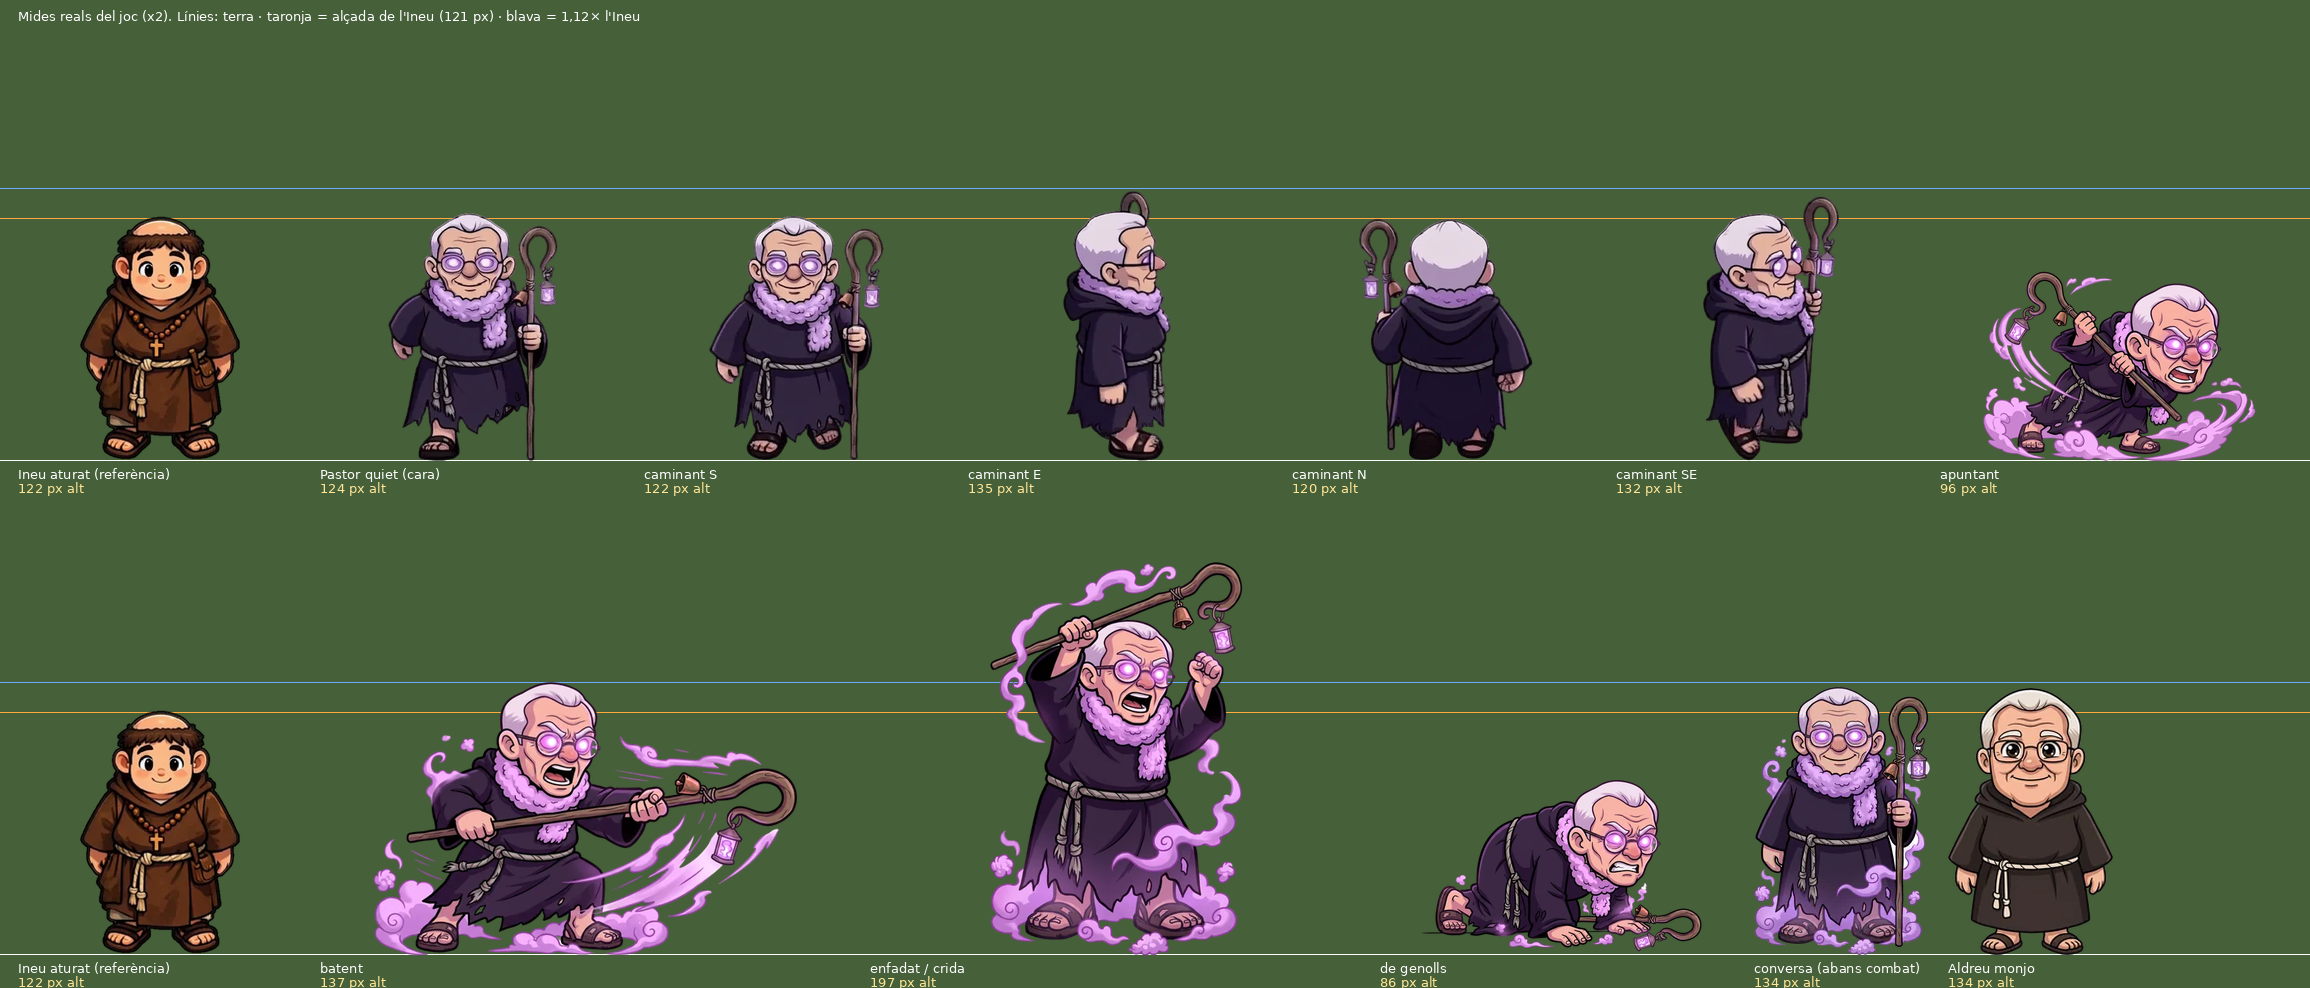
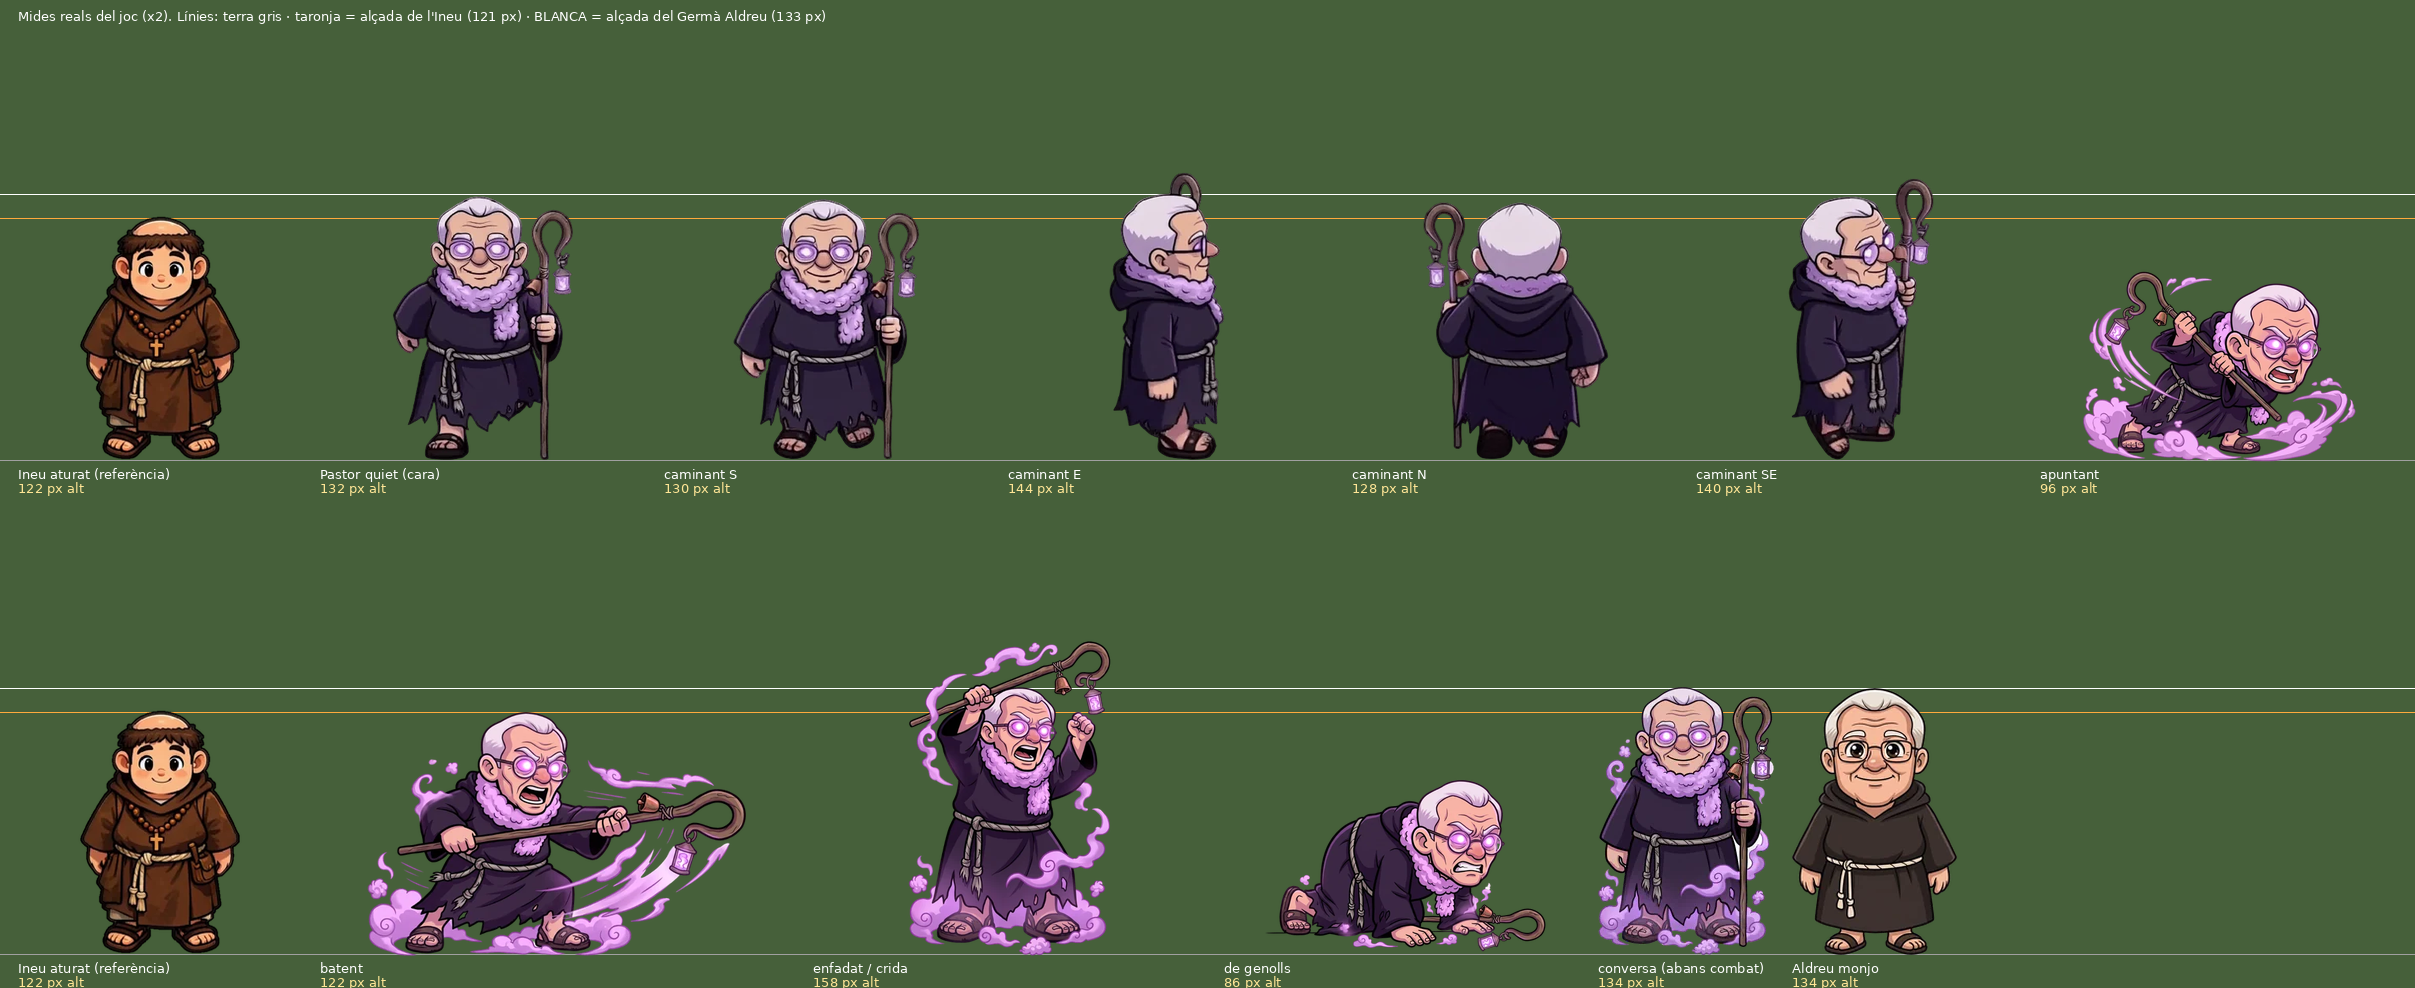
Pastor de la Boira: caminant/quiet a l'alçada del Germà Aldreu, batent amb el cap a l'alçada de l'Ineu, enfadat amb el cap a la línia blanca
Claude-Session: https://claude.ai/code/session_01Lxfm6YSSDLi4GYSBQ6SeDm

diff --git a/index.html b/index.html
@@ -32,7 +32,7 @@
     <!-- Tipografies al nostre servidor (eines/baixa_tipografies.py): el joc no demana res a Google -->
     <link rel="stylesheet" href="assets/fonts/fonts.css">
     <!-- Phaser va amb el joc (així no depèn de cap servidor extern); si el fitxer local fallés, es prova el CDN -->
-    <script src="js/lib/phaser.min.js?v=2611211015.80.1"></script>
+    <script src="js/lib/phaser.min.js?v=2611211054.80.1"></script>
     <script>if (typeof Phaser === 'undefined') document.write('<script src="https://cdn.jsdelivr.net/npm/phaser@3.80.1/dist/phaser.min.js"><\/script>');</script>
 </head>
 <body>
@@ -61,64 +61,64 @@
     <div id="joc"></div>
 
     <!-- L'ordre importa: cada fitxer fa servir coses dels anteriors -->
-    <script src="js/sfx.js?v=2611211015"></script>
-    <script src="js/partida.js?v=2611211015"></script>
-    <script src="js/progres.js?v=2611211015"></script>
-    <script src="js/dibuixos.js?v=2611211015"></script>
-    <script src="js/icones.js?v=2611211015"></script>
-    <script src="js/dibuixos_biblio.js?v=2611211015"></script>
-    <script src="js/dibuixos_cela.js?v=2611211015"></script>
-    <script src="js/dibuixos_taller.js?v=2611211015"></script>
-    <script src="js/dibuixos_cripta.js?v=2611211015"></script>
-    <script src="js/dibuixos_georgi.js?v=2611211015"></script>
-    <script src="js/dibuixos_oratori.js?v=2611211015"></script>
-    <script src="js/dibuixos_ermita.js?v=2611211015"></script>
-    <script src="js/dibuixos_casa.js?v=2611211015"></script>
-    <script src="js/dibuixos_proleg.js?v=2611211015"></script>
-    <script src="js/dibuixos_pingpong.js?v=2611211015"></script>
-    <script src="js/mides_aldreu.js?v=2611211015"></script>
-    <script src="js/assets.js?v=2611211015"></script>
-    <script src="js/sombra_ineu.js?v=2611211015"></script>
-    <script src="js/dialegs.js?v=2611211015"></script>
-    <script src="js/ui.js?v=2611211015"></script>
-    <script src="js/zona_base.js?v=2611211015"></script>
-    <script src="js/atac_arma.js?v=2611211015"></script>
-    <script src="js/combat.js?v=2611211015"></script>
-    <script src="js/musica.js?v=2611211015"></script>
-    <script src="js/zones/placa.js?v=2611211015"></script>
-    <script src="js/zones/esglesia.js?v=2611211015"></script>
-    <script src="js/zones/monestir.js?v=2611211015"></script>
-    <script src="js/zones/bassadoria.js?v=2611211015"></script>
-    <script src="js/zones/casa_gran.js?v=2611211015"></script>
-    <script src="js/zones/nord.js?v=2611211015"></script>
-    <script src="js/zones/cirosa.js?v=2611211015"></script>
-    <script src="js/estels.js?v=2611211015"></script>
-    <script src="js/pingpong.js?v=2611211015"></script>
-    <script src="js/credits.js?v=2611211015"></script>
-    <script src="js/zones/oest.js?v=2611211015"></script>
-    <script src="js/zones/bosc_pi.js?v=2611211015"></script>
-    <script src="js/zones/cementiri.js?v=2611211015"></script>
-    <script src="js/zones/casa.js?v=2611211015"></script>
-    <script src="js/zones/cabana.js?v=2611211015"></script>
-    <script src="js/zones/cami.js?v=2611211015"></script>
-    <script src="js/zones/ermita.js?v=2611211015"></script>
-    <script src="js/zones/era.js?v=2611211015"></script>
-    <script src="js/zones/jardi.js?v=2611211015"></script>
-    <script src="js/zones/torre.js?v=2611211015"></script>
-    <script src="js/zones/hostatgeria.js?v=2611211015"></script>
-    <script src="js/zones/taverna.js?v=2611211015"></script>
-    <script src="js/zones/gabia.js?v=2611211015"></script>
-    <script src="js/zones/gabia_decor.js?v=2611211015"></script>
-    <script src="js/zones/biblioteca.js?v=2611211015"></script>
-    <script src="js/zones/rebedor.js?v=2611211015"></script>
-    <script src="js/zones/cela.js?v=2611211015"></script>
-    <script src="js/diari.js?v=2611211015"></script>
-    <script src="js/mapa.js?v=2611211015"></script>
-    <script src="js/proves_llistes.js?v=2611211015"></script>
-    <script src="js/proves_escenaris.js?v=2611211015"></script>
-    <script src="js/proves.js?v=2611211015"></script>
-    <script src="js/intro.js?v=2611211015"></script>
-    <script src="js/main.js?v=2611211015"></script>
+    <script src="js/sfx.js?v=2611211054"></script>
+    <script src="js/partida.js?v=2611211054"></script>
+    <script src="js/progres.js?v=2611211054"></script>
+    <script src="js/dibuixos.js?v=2611211054"></script>
+    <script src="js/icones.js?v=2611211054"></script>
+    <script src="js/dibuixos_biblio.js?v=2611211054"></script>
+    <script src="js/dibuixos_cela.js?v=2611211054"></script>
+    <script src="js/dibuixos_taller.js?v=2611211054"></script>
+    <script src="js/dibuixos_cripta.js?v=2611211054"></script>
+    <script src="js/dibuixos_georgi.js?v=2611211054"></script>
+    <script src="js/dibuixos_oratori.js?v=2611211054"></script>
+    <script src="js/dibuixos_ermita.js?v=2611211054"></script>
+    <script src="js/dibuixos_casa.js?v=2611211054"></script>
+    <script src="js/dibuixos_proleg.js?v=2611211054"></script>
+    <script src="js/dibuixos_pingpong.js?v=2611211054"></script>
+    <script src="js/mides_aldreu.js?v=2611211054"></script>
+    <script src="js/assets.js?v=2611211054"></script>
+    <script src="js/sombra_ineu.js?v=2611211054"></script>
+    <script src="js/dialegs.js?v=2611211054"></script>
+    <script src="js/ui.js?v=2611211054"></script>
+    <script src="js/zona_base.js?v=2611211054"></script>
+    <script src="js/atac_arma.js?v=2611211054"></script>
+    <script src="js/combat.js?v=2611211054"></script>
+    <script src="js/musica.js?v=2611211054"></script>
+    <script src="js/zones/placa.js?v=2611211054"></script>
+    <script src="js/zones/esglesia.js?v=2611211054"></script>
+    <script src="js/zones/monestir.js?v=2611211054"></script>
+    <script src="js/zones/bassadoria.js?v=2611211054"></script>
+    <script src="js/zones/casa_gran.js?v=2611211054"></script>
+    <script src="js/zones/nord.js?v=2611211054"></script>
+    <script src="js/zones/cirosa.js?v=2611211054"></script>
+    <script src="js/estels.js?v=2611211054"></script>
+    <script src="js/pingpong.js?v=2611211054"></script>
+    <script src="js/credits.js?v=2611211054"></script>
+    <script src="js/zones/oest.js?v=2611211054"></script>
+    <script src="js/zones/bosc_pi.js?v=2611211054"></script>
+    <script src="js/zones/cementiri.js?v=2611211054"></script>
+    <script src="js/zones/casa.js?v=2611211054"></script>
+    <script src="js/zones/cabana.js?v=2611211054"></script>
+    <script src="js/zones/cami.js?v=2611211054"></script>
+    <script src="js/zones/ermita.js?v=2611211054"></script>
+    <script src="js/zones/era.js?v=2611211054"></script>
+    <script src="js/zones/jardi.js?v=2611211054"></script>
+    <script src="js/zones/torre.js?v=2611211054"></script>
+    <script src="js/zones/hostatgeria.js?v=2611211054"></script>
+    <script src="js/zones/taverna.js?v=2611211054"></script>
+    <script src="js/zones/gabia.js?v=2611211054"></script>
+    <script src="js/zones/gabia_decor.js?v=2611211054"></script>
+    <script src="js/zones/biblioteca.js?v=2611211054"></script>
+    <script src="js/zones/rebedor.js?v=2611211054"></script>
+    <script src="js/zones/cela.js?v=2611211054"></script>
+    <script src="js/diari.js?v=2611211054"></script>
+    <script src="js/mapa.js?v=2611211054"></script>
+    <script src="js/proves_llistes.js?v=2611211054"></script>
+    <script src="js/proves_escenaris.js?v=2611211054"></script>
+    <script src="js/proves.js?v=2611211054"></script>
+    <script src="js/intro.js?v=2611211054"></script>
+    <script src="js/main.js?v=2611211054"></script>
     <script>
         // Service worker: només amb http(s) (no obrint el fitxer directament) i sense fer fallar el joc si no pot ser
         window.addEventListener('load', () => { try { if (typeof game !== 'undefined') sessionStorage.removeItem('runna_reintent'); } catch (e) { } });

diff --git a/js/assets.js b/js/assets.js
@@ -352,7 +352,7 @@ const Grafics = {
         scene.load.spritesheet('pallofa_cami', 'assets/personatges/pallofa_cami.webp', { frameWidth: 135, frameHeight: 140 });      // el Pallofa caminant cap a la dreta (4x4 fotogrames); es gira per anar cap a l'esquerra
         scene.load.spritesheet('pare_jorda_camina', 'assets/personatges/pare_jorda_camina.webp', { frameWidth: 200, frameHeight: 290 });
         // Fulls d'animació del Pastor de la Boira (boss de la Cirosa): quadrícula de fotogrames: 384 x 384 el full de caminar (alta resolució, vegeu eines/fer_pastor_camina_hd.py); si no hi són, es veu el dibuix fix (vegeu docs/PROMPTS_GRAFICS.md)
-        Object.keys(Grafics.PASTOR_FULLS).forEach(n => scene.load.spritesheet('pastor_' + n, `assets/enemics/pastor_${n}.webp?v=2611211015`, { frameWidth: 384, frameHeight: 384 }));
+        Object.keys(Grafics.PASTOR_FULLS).forEach(n => scene.load.spritesheet('pastor_' + n, `assets/enemics/pastor_${n}.webp?v=2611211054`, { frameWidth: 384, frameHeight: 384 }));
         scene.load.spritesheet('home_raim_camina', 'assets/enemics/home_raim_camina.webp?v=2611131800', { frameWidth: 331, frameHeight: 502 });      // el Home del Raïm caminant (4 poses clau, cap a la dreta; es gira amb flipX)
         Object.entries(NPC_IDLE).forEach(([k, d]) => scene.load.spritesheet(k + '_idle', `assets/personatges/${k}_idle.webp?v=2611122055`, { frameWidth: d.w, frameHeight: d.h }));
         scene.load.spritesheet('germa_aldreu_camina', 'assets/personatges/germa_aldreu_camina.webp', { frameWidth: 180, frameHeight: 265 });

diff --git a/js/mides_aldreu.js b/js/mides_aldreu.js
@@ -11,7 +11,7 @@ const MIDES_ALDREU = {
         poses: { apunta: 0.98, ataca: 1.32, enfadat: 1.28, derrota: 0.95 },     // factor de cada pose, perquè el cap tingui la mateixa mida a totes
         aldreu: { germa_aldreu: 82.6, germa_aldreu_trist: 75.2, pastor_boira: 88, aldreu_guardia: 89.4 }       // amplada de joc (px) de cada dibuix de l'Aldreu fora del combat (js/assets.js)
     },
-    mult: { pastor: 1, camina: 0.75, apunta: 0.76, ataca: 0.84, enfadat: 0.80, derrota: 0.78, germa_aldreu: 1, germa_aldreu_trist: 1, pastor_boira: 1, aldreu_guardia: 1 }          // (mides unificades: el cap del Pastor fa 45-48 px a totes les poses i el caminant, 1,12 x l'alçada de l'Ineu; es poden ajustar amb l'eina)
+    mult: { pastor: 1, camina: 0.80, apunta: 0.76, ataca: 0.75, enfadat: 0.64, derrota: 0.78, germa_aldreu: 1, germa_aldreu_trist: 1, pastor_boira: 1, aldreu_guardia: 1 }          // (triats segons l'autor: caminant i quiet de cara = alçada del Germà Aldreu (133 px, línia blanca); batent: el cap a l'alçada de l'Ineu (121 px); enfadat: el cap a la línia blanca)
 };
 try {
     const desat = JSON.parse(localStorage.getItem('runna_mides_aldreu') || 'null');

diff --git a/docs/GUIO.md b/docs/GUIO.md
@@ -1,6 +1,8 @@
 # Runna: l'espasa del Miracle — Guió (versió lleugera, ~5 hores)
 
 Document de referència del joc. Qualsevol canvi d'història es fa primer aquí.
+*Revisió 645: Pastor de la Boira: mides triades per l'autor sobre la imatge de comparació: caminant i quiet de cara a l'alçada del Germà Aldreu (≈133 px; 80 %), batent amb el cap a l'alçada de l'Ineu (121 px; 75 %), enfadat/crida amb el cap a l'alçada del Germà Aldreu (64 %); apuntar 76 %, de genolls 78 %.*
+
 *Revisió 644: Pastor de la Boira: mides unificades amb el criteri de l'agent d'art perquè sempre es vegi igual de gran: el cap fa uns 45-48 px a totes les poses (caminant 75 %, apuntar 76 %, batre 84 %, enfadat 80 %, de genolls 78 %) i el caminant de cara fa ≈ 1,12 vegades l'alçada de l'Ineu (un pèl més gran, no desproporcionat).*
 
 *Revisió 643: Pastor de la Boira: mides de les poses del combat triades per l'autor amb l'eina (apuntar 86 %, batre 78 %, enfadat 76 %, de genolls 86 %; caminant i dret, 74 % (igual d'alt que el dibuix de la conversa); mida general, 100 %). Aldreu fora del combat, sense canvis.*
